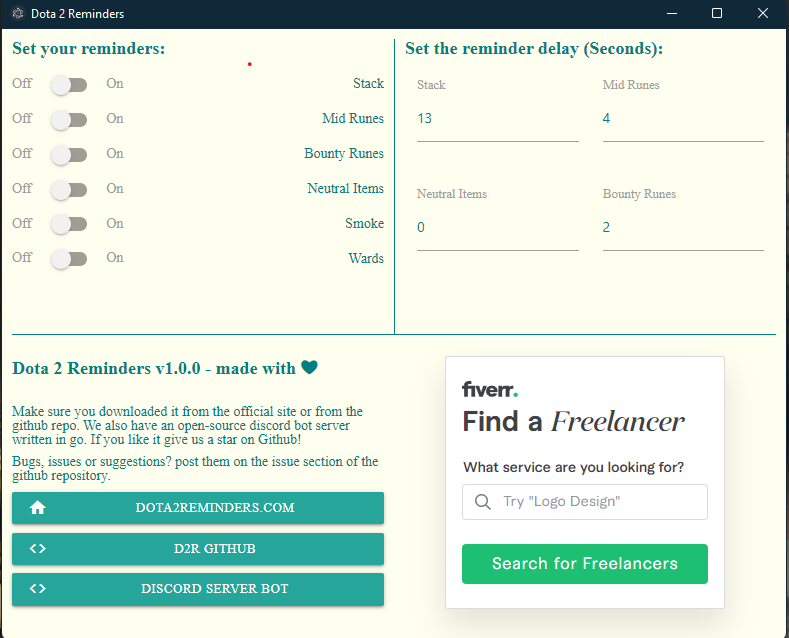
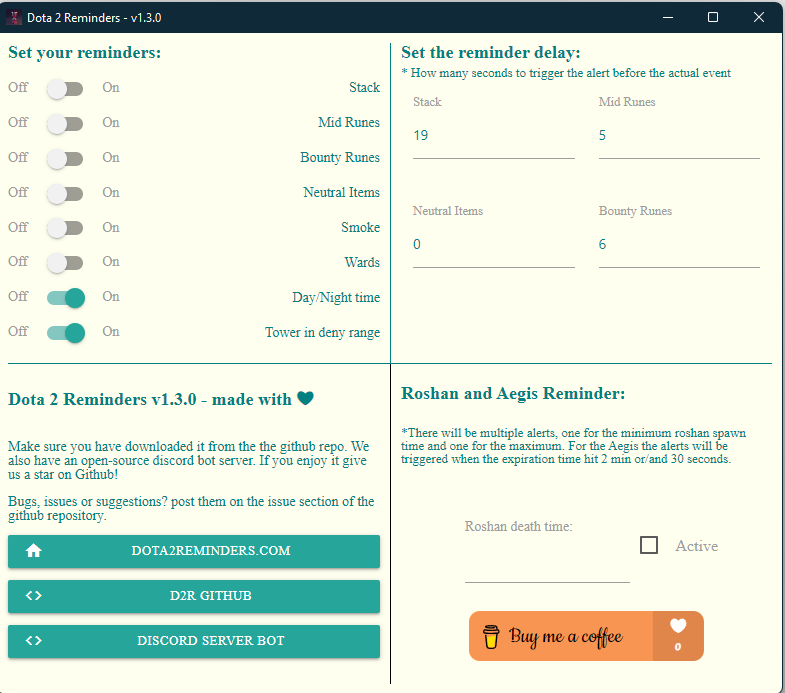
chore: update readme

diff --git a/game/game.js b/game/game.js
@@ -29,7 +29,7 @@ function storeChangeCallback(newValue, _oldValue) {
 const checkForTowerDeny = (gameTime, buildings) => {
   if (LAST_CALL_TOWER_DENY > gameTime) LAST_CALL_TOWER_DENY = 0
   const team = buildings.dire ? "dire" : "radiant"
-  const timeBetweenCalls = 20
+  const timeBetweenCalls = 10
 
   for (const building in buildings[team]) {
     if (building.includes('tower') && (LAST_CALL_TOWER_DENY+timeBetweenCalls) <= gameTime) {

diff --git a/README.md b/README.md
@@ -1,4 +1,4 @@
-# Dota 2 reminders - Electron App 
+# Dota 2 reminders - Desktop App 
 
 ![Electron app](dev_assets.o/elec.png?raw=true "Electron app")
 
@@ -9,14 +9,17 @@ This is windows app (electron based) that will listen to your dota 2 game events
 ## Features
 
 - Automatically listen to your game status
-- You can choose a range of different reminders (stack time, neutral items, smoke, wards,)
-  - stack (every xx:xx:47)
+- You can choose a range of different reminders:
+  - stack (every minute)
   - wards (every time it is available in the shop with a delay of 40 seconds to avoid spam)
   - smoke (1 stock takes 7 minutes to replenish, so that's the reminder time)
-  - bounty runes (2 seconds before spawn)
-  - mid runes (4 seconds before spawn)
+  - bounty runes
+  - mid runes
   - neutral items (every time a new tier is available to drop)
-- You can edit the reminders anytime you want
+  - Day/Night time
+  - Tower in deny range (with a min delay of 10 seconds between calls)
+  - Roshan/Aegis (Min and max roshan spawn time and aegis expiration time)
+- You can add delay(seconds before the event) to some reminders, like the stack and runes.
 
 ## How to install
 So you will need to follow the 3 steps:
@@ -55,15 +58,10 @@ If you never used overwolf you probably do not have the gamestate_integration fo
 
 
 ## Roadmap
-- Persist configuration
-- Support Roshan and Aegis time
-- Icons for the app
-- Tower in deny range
-- Optional reminder when watching games
-- Volume of alerts
-- Record video demo 
+- Record video of app demo and installation
+- Optional set reminder when watching games
+- Volume of the alerts
 - Ability to add custom reminders
-- Custom call time between wards reminders
 - Dark Mode
 - Turbo game mode
 - Config ESLINT
